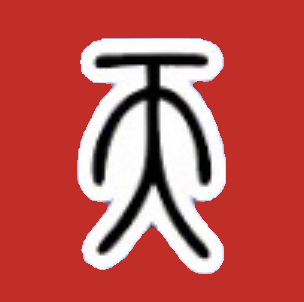
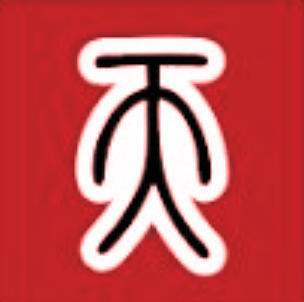
better? images

Changed region(s): [[0.2368, 0.0894, 0.7697, 0.9238], [0.977, 0.0, 1.0, 0.0298]]

diff --git a/images/Fake KFS/change_color.py b/images/Fake KFS/change_color.py
@@ -14,6 +14,8 @@ def change_blue_to_color(input_dir, output_dir, new_color):
 
     # Iterate through all files in the input directory
     for filename in os.listdir(input_dir):
+        if filename.__contains__("Red"):
+            pass
         if filename.endswith(('.png', '.jpg', '.jpeg')):
             img_path = os.path.join(input_dir, filename)
             img = Image.open(img_path)
@@ -27,10 +29,11 @@ def change_blue_to_color(input_dir, output_dir, new_color):
             for item in data:
                 # print(item)
                 # Change blue shades to the new color
-                if is_blue(item):
-                    new_data.append(new_color + (item[3],))  # Keep the alpha channel
-                else:
-                    new_data.append(item)
+                # if is_blue(item):
+                new_data.append((int(item[2]*1.5), item[1], item[0], item[3])) # swap r and b
+                    # new_data.append(new_color + (item[3],))  # Keep the alpha channel
+                # else:
+                    # new_data.append(item)
 
             # Update image data and save the modified image
             img.putdata(new_data)

diff --git a/images/R2 KFS/change_color.py b/images/R2 KFS/change_color.py
@@ -14,6 +14,8 @@ def change_red_to_color(input_dir, output_dir, new_color):
 
     # Iterate through all files in the input directory
     for filename in os.listdir(input_dir):
+        if filename.__contains__("Red"):
+            pass
         if filename.endswith(('.png', '.jpg', '.jpeg')):
             img_path = os.path.join(input_dir, filename)
             img = Image.open(img_path)
@@ -27,7 +29,8 @@ def change_red_to_color(input_dir, output_dir, new_color):
             for item in data:
                 # Change red shades to the new color
                 if is_red(item):
-                    new_data.append(new_color + (item[3],))  # Keep the alpha channel
+                    new_data.append((item[2], item[1], int(item[0]*0.67), item[3])) # swap r and b
+                    # new_data.append(new_color + (item[3],))  # Keep the alpha channel
                 else:
                     new_data.append(item)
 
